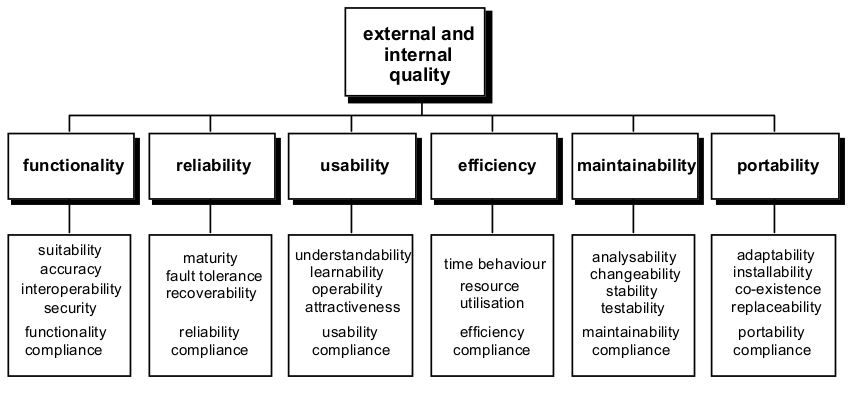
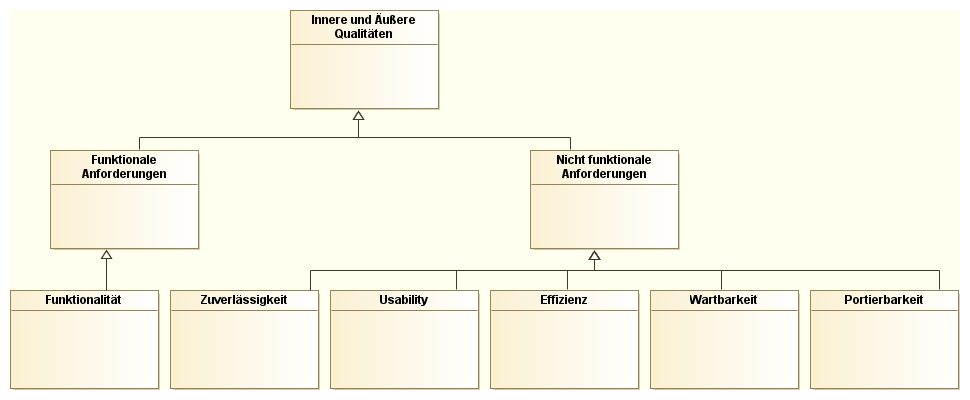
get rid of iso graphics

Changed region(s): [[0.0, 0.0, 1.0, 0.99]]

diff --git a/thesis/chapters/requirements.tex b/thesis/chapters/requirements.tex
@@ -1,7 +1,10 @@
 \chapter{Softwarequalität}
-Für viele KundInnen ist Softwarearchitektur ein schwer einorden- und erklärbares Teilgebiet der Softwareentwicklung. Deswegen ist es schwierig, den/die KundIn für die Mithilfe an der Architekturerstellung und die daraus resultierenden Kosten zu gewinnen. Eine mögliche Lösung für dieses Problem ist es, die durch unzureichende Softwarequalität entstandenen Kosten, welche wiederum die Folge einer mangelhaften Architektur sind, den Kosten der Architekturerstellung gegenüber zu stellen. Die Einbeziehung von Softwarequalität in den Architekturprozess ist somit notwendig. \cite[S. 8-9]{softarch}
+Für viele KundInnen ist Softwarearchitektur ein schwer einorden- und erklärbares Teilgebiet der Softwareentwicklung. Deswegen ist es schwierig, den/die KundIn für die Mithilfe an der Architekturerstellung und die daraus resultierenden Kosten zu gewinnen. Eine mögliche Lösung für dieses Problem ist es, die durch unzureichende Softwarequalität entstandenen Kosten, welche wiederum die Folge einer mangelhaften Architektur sind, den Kosten der Architekturerstellung gegenüber zu stellen.  \cite[S. 8-9]{softarch}
 
-Was genau verbirgt sich jedoch hinter dem Begriff Softwarequalität? Der Begriff Qualität selbst ist sehr breit und schwammig. Laut Garvin gibt es fünf verschiedene Herangehensweisen \cite[S. 25-29]{quality}:
+
+Eine gute Softwarearchitektur allein kann zwar nicht eine hohe Softwarequalität garantieren, ist jedoch ein wichtiger Faktor, ohne welchen keine hochqualitative Software erstellt werden kann. Softwarequalität und Softwarearchitektur stehen somit in einem engen Zusammenhang. \cite[S. 8-9]{softarch}
+
+Was genau verbirgt sich jedoch hinter dem Begriff Softwarequalität? Der Begriff Qualität selbst ist sehr breit und schwer definierbar. Laut Garvin gibt es fünf verschiedene Herangehensweisen \cite[S. 25-29]{quality}:
 
 \begin{itemize}
   \item Transzendentale Sicht
@@ -13,12 +16,12 @@ Was genau verbirgt sich jedoch hinter dem Begriff Softwarequalität? Der Begriff
 
 Die transzendentale Sicht beschreibt Qualität als sofort erkennbar, aber als nicht wirklich beschreibbar. Die produktbasierte Sicht ordnet die Qualität des Produktes dessen Bestandteilen zu. Bei der userbasierten Sicht geht es darum, die Anforderungen des/der NutzerInnen zu befriedigen: Die höchste Qualität eines Produktes wird daher erreicht, wenn der/die BenutzerIn alles vorfindet, was er/sie sich erwartet, nicht Mehr und nicht Weniger. Die herstellungsbasierte Sicht misst Qualität an der Erfüllung der Spezifikation und des Designs. Die wertbasierte Sicht schließlich definiert die Qualität durch das Preis-Leistungsverhältnis. \cite[S. 26]{quality}
 
-Diese Sichten treffen mehr oder weniger auch für Softwarequalität zu \cite[S. 399]{pract}, sind aber noch zu grob formuliert, um konkrete Schritte bei der Erstellung des Systems und dessen Architektur zu setzen.
+Diese Sichten treffen mehr oder weniger auch für Softwarequalität zu \cite[S. 399]{pract}, sind aber noch zu grob formuliert, um konkrete Schritte bei der Erstellung des Systems und dessen Architektur zu setzen und konkrete Werte für die Überprüfung der Qualität fest zu legen. Eine genaue Auflistung der für Softwarequalität relevanten Faktoren, bzw. ein Modell, welches den Qualitätsprozess unterstützt, ist somit von Nöten.
 
 \section{Softwarequalitätsmodelle}
-ISO 9126 \cite{ISO_SQ} und dessen Nachfolger ISO 25010 \cite{ISO_SQ2} bieten ein Modell, um Softwarequalität zu beschreiben. ISO 25010, der Nachfolgestandard, erweitert die in ISO 9126 beschriebenen Hauptkategorien um Security und Compatibility und ändert auch die Kategorie Software Quality in Use ab, welche nun die Kategorie Usability erhält, welche vorher in den Hauptkriterien definiert war. Da es aber schwierig war, zitierbare Quellen zum neuen Standard zu finden - ISO 25010 hat \glqq in die Praxis wenig Einzug gehalten\grqq \ \cite[S. 60]{effektiv} - , die Neuerungen überschaubar und mehr eine Umorganisierung als Revolution darstellen, wird auf die Nutzung von ISO 25010 verzichtet und das Qualitätsmodell des Vorgängers, ISO 9216, verwendet.
+ISO 9126 \cite{ISO_SQ} und dessen Nachfolger ISO 25010 \cite{ISO_SQ2} bieten ein Modell, um Softwarequalität zu beschreiben. ISO 25010, der Nachfolgestandard, erweitert die in ISO 9126 beschriebenen Hauptkategorien um Security und Compatibility. Auch die Kategorie Software Quality in Use erfährt eine Überarbeitung: Sie enhält nun die Kategorie Usability, welche vorher in den Hauptkriterien definiert war. Da es aber schwierig war, zitierbare Quellen zum neuen Standard zu finden - ISO 25010 hat \glqq in die Praxis wenig Einzug gehalten\grqq \ \cite[S. 60]{effektiv} - , die Neuerungen überschaubar und mehr eine Umorganisierung als Revolution darstellen, wird auf die Nutzung von ISO 25010 verzichtet und das Qualitätsmodell des Vorgängers, ISO 9216, verwendet.
 
-ISO 9126 definiert folgende Qualitätskategorien (Abbildung \ref{fig:iso9126}):
+ISO 9126 definiert folgende Qualitätskategorien:
 
 \begin{itemize}
   \item \glqq Functionality\grqq
@@ -29,14 +32,15 @@ ISO 9126 definiert folgende Qualitätskategorien (Abbildung \ref{fig:iso9126}):
   \item \glqq Portability\grqq
 \end{itemize}
 
+
+Die beschriebenen Kategorien können laut IREB wiederum in folgende Überkategorien eingeteilt werden: funktionale Anforderungen und nicht funktionale Anforderungen (Abbildung \ref{fig:iso9126}).
+
 \begin{figure}[H]
     \centering
-    \includegraphics[scale=0.54]{img/iso9126.png}
-    \caption{Die Qualitätskategorien des ISO 9126 Standards\cite[S. 7]{ISO_SQ}}
+    \includegraphics[scale=0.45]{img/iso9126.png}
+    \caption{Die Qualitätskategorien des ISO 9126 Standards unterteilt in funktionale und nicht funktionale Anforderungen}
     \label{fig:iso9126}
 \end{figure}
-
-Die beschriebenen Kategorien können laut IREB wiederum in folgende Überkategorien eingeteilt werden: funktionale Anforderungen und nicht funktionale Anforderungen. Auch erwähnt seien die Rahmenbedingungen, welche nicht im ISO 9126 Standard definiert sind und die zeitlichen und technologischen Umstände beschreiben.
 
 
 \section{Funktionale Anforderungen}
@@ -57,17 +61,17 @@ Suitability beschreibt das Vorhandensein von Funktionen, welche die vom/von der 
 \section{Nicht funktionale Anforderungen}
 Nicht funktionalen Anforderungen \glqq verkörpern Erwartungen und Notwendigkeiten, die von Interessensvertretern (Auftraggeber, Benutzer, Architekt, Entwickler, etc.) neben den funktionalen Anforderungen als wichtig erachtet werden und über die reine gewünschte Funktionalität hinausgehen\grqq \cite[S. 108]{softarch}. Sie definieren nicht das Was sondern das Wie \cite[S. 80]{reqanalysis}.
 
-Der Fokus liegt meist auf der Funktionalität eines Systems: Es ist schließlich der Hauptgrund für die Erstellung des Systems und der/die KundIn hat eine genaue Vorstellung, was das System genau können muss. Die Qualität des Systems ist meist eine implizite Anforderung, welche im Anforderungsprozess besonders beachtet werden muss, aber trotzdem essentiell für den Erfolg des Systems ist. \cite[S. 109]{softarch}
+Der Fokus liegt meist auf der Funktionalität eines Systems; es ist schließlich der Hauptgrund für die Erstellung des Systems und der/die KundIn hat eine genaue Vorstellung, was das System genau können muss. Die Qualität des Systems ist meist eine implizite Anforderung, welche im Anforderungsprozess besonders beachtet werden muss, aber trotzdem essentiell für den Erfolg des Systems ist. \cite[S. 109]{softarch}
 
-Dies lässt an folgendem Beispiel demonstrieren: Ein/Eine KundIn beauftragt eine Firma, einen Webshop zu erstellen, auf welchem er/sie seine/ihre Produkte verkaufen will. Die Funktionalität des Webshops wird wie beschrieben implementiert, aber das Endprodukt ist so langsam, dass ein Großteil der KundInnen den Bestellvorgang abbricht. Der Hauptfunktion des Systems, nämlich Produkte verkaufen, ist somit zwar möglich, aber für den Kunden im Vergleich zur investierten Summe unrentabel.
+Dies lässt an folgendem Beispiel demonstrieren: Ein/Eine KundIn beauftragt eine Firma, einen Webshop zu erstellen, auf welchem er/sie seine/ihre Produkte verkaufen will. Die Funktionalität des Webshops wird wie beschrieben implementiert, aber das Endprodukt ist so langsam, dass ein Großteil der KundInnen den Bestellvorgang abbricht. Der Hauptfunktion des Systems, nämlich Produkte verkaufen, ist somit zwar prinzipiell möglich, aber für den/die KundIn im Vergleich zur investierten Summe unrentabel.
 
-Nicht funktionale Anforderungen sind nicht nur oft implizite Anforderungen, sondern auch schwer bezifferbar: Oft wird einfach verlangt, dass das System schnell sein soll. Eine genaue Definition, was der/die KundIn unter schnell versteht ist oft schwer zu ermitteln. Außerdem sind durch die Kontextabhängigkeit des Begriffes keine allgemeingültigen Werte ermittelbar: Eine ein Sekunden lange Antwortzeit kann für die Nutzung einer Buchhaltungssoftware schnell genug sein, werden die Daten aber für zeitkritische Anwendungen wie Aktienkäufe benötigt, ist die selbe Antwortzeit inakzeptabel. \cite[S. 59]{effektiv}.
+Nicht funktionale Anforderungen sind nicht nur oft implizite Anforderungen, sondern auch schwer bezifferbar: Oft wird zB. einfach verlangt, dass das System schnell sein soll. Eine genaue Definition, was der/die KundIn unter schnell versteht ist schwer zu ermitteln. Außerdem sind durch die Kontextabhängigkeit des Begriffes keine allgemeingültigen Werte ermittelbar: Eine ein Sekunden lange Antwortzeit kann für die Nutzung einer Buchhaltungssoftware schnell genug sein, werden die Daten aber für zeitkritische Anwendungen wie Aktienkäufe benötigt, ist die selbe Antwortzeit inakzeptabel. \cite[S. 59]{effektiv}.
 
 Es sind jedoch besonders die nicht funktionalen Anforderungen, welche im Fokus der Architekturerstellung liegen: Durch die in der Architekturphase entwickelte Struktur der Applikation wird die Erfüllung bestimmter Qualitätsmerkmale überhaupt erst möglich. Die Architektur beinflusst somit die nicht funktionalen Qualitäten eines Systems stark \cite[S. 109]{softarch}. Dies erlaubt folgenden Umkehrschluss: \glqq Architektur ist für die Qualität eines Systems notwendig\grqq \cite[S. 59]{effektiv}. \cite[S. 19]{effektiv}
 
 Weil die Qualität des Systems wie beschrieben maßgeblich von der Architektur abhängt, welche wiederum von den Qualitätsmerkmalen nicht funktionaler Anforderungen abhängt, ist auch die Ermittlung, Korrektheit und Präzision dieser Anforderung für die Architektur von hoher Bedeutung.
 
-Die übrigen Kategorien von ISO 9126 werden vom IREB den nicht funktionalen Anforderungen zugeschrieben\cite[S. 9]{ireb}:
+Die nicht funktionalen Anforderungen in ISO 9126 werden vom IREB den  verbleibenden Kategorien zugeschrieben. Darunter fallen folgende Kategorien\cite[S. 9]{ireb}:
 
 \begin{itemize}
   \item \glqq Suitability\grqq
